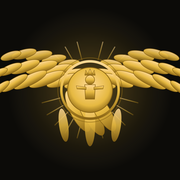
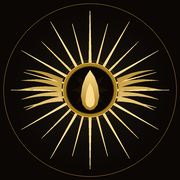
Redesign emblem: sacred flame (atar) + Faravahar wings via bridge spec
Replaces the old 'K' monogram with the DeepSeek-bridge-designed emblem:
a sacred flame (the atar, divine royal glory) as the hero, resting in a
gold disc over a 24-ray sunburst, with Faravahar-style tapered wing arcs,
a subtle 16-point star, and a frame ring. Pure Pillow, no bundled fonts,
gold-on-black palette. Regenerates golden.png, favicon, apple-touch-icon,
and og-image.

diff --git a/gen_assets.py b/gen_assets.py
@@ -1,172 +1,237 @@
 #!/usr/bin/env python3
-"""Generate high-quality Khvarenah brand assets with Pillow only (no external
-image API needed, always works offline).
+"""Khvarenah brand emblem — sacred flame + Faravahar wings (Pillow only).
+
+Implements the design spec from the DeepSeek bridge:
+
+  KHVARENAH — Emblem Specification (1024x1024):
+  1. bg        full black #0a0705
+  2. halo      warm radial glow centered (512,512), rgba(255,224,150,.16)->0
+  3. rays      24-ray sunburst (even long r=450, odd short r=390), gold grad
+  4. wings     left/right Faravahar wing arcs, 5 tapered curved feathers each
+  5. disc_ring gold ring r=156 #a67c1a, highlight stroke #ffe096
+  6. disc_core black disc r=136 (flame substrate), inner gold edge
+  7. star8     16-point subtle near-black star on the core (outer 108/inner 54)
+  8. flame_outer sacred flame (atar) — 12-point gold polygon
+  9. flame_inner hot white-gold core — 10-point polygon
+ 10. frame     thin outer border ring r=492 #b8862b
 
 Produces:
-  * khvarenah/assets/golden.png   — 1024x1024 square app emblem
-  * docs/golden.png                — copy for the site / og:image
-  * docs/og-image.png              — 1200x630 social share card
-  * docs/favicon.png               — 128x128 rounded favicon
-  * docs/apple-touch-icon.png      — 180x180
+  * khvarenah/assets/golden.png     — 1024x1024 square app emblem
+  * docs/golden.png                 — copy for the site / og-image
+  * docs/favicon.png                — 128x128 rounded favicon
+  * docs/apple-touch-icon.png       — 180x180
+  * docs/og-image.png               — 1200x630 social card
 """
+from __future__ import annotations
+
 import math
 import pathlib
-from PIL import Image, ImageDraw, ImageFont
+from PIL import Image, ImageDraw, ImageFilter
 
 ROOT = pathlib.Path(__file__).resolve().parent
 ASSETS = ROOT / "khvarenah" / "assets"
 DOCS = ROOT / "docs"
 
-GOLD_LIGHT = (255, 224, 150)
-GOLD = (230, 185, 64)
-GOLD_DEEP = (166, 124, 26)
-BLACK = (12, 11, 8)
+# Palette (from spec)
+BLACK = (10, 7, 5)          # #0a0705
+DEEP = (166, 124, 26)       # #a67c1a
+MID = (212, 167, 68)        # #d4a744
+LIGHT = (255, 224, 150)     # #ffe096
+DARK = (26, 15, 5)          # #1a0f05
+FRAME = (184, 134, 43)      # #b8862b
+
+SIZE = 1024
+CX = CY = 512
 
 
 def _lerp(a, b, t):
     return tuple(round(a[i] + (b[i] - a[i]) * t) for i in range(3))
 
 
-def _gold(t):
-    """Gold gradient 0..1 from deep to light gold."""
-    return _lerp(GOLD_DEEP, GOLD_LIGHT, t)
+def _grad_color(t):
+    """Gold gradient 0..1: deep -> light."""
+    return _lerp(DEEP, LIGHT, t)
 
 
-def _radial_gradient(size: int, inner, outer):
-    """Circular gradient image (inner color at center → outer at edge)."""
-    im = Image.new("RGB", (size, size))
+def _composite(base, layer):
+    return Image.alpha_composite(base, layer)
+
+
+def _render_radial_halo(size):
+    """Warm radial glow: rgba(255,224,150,.16) at center -> 0 at r=510."""
+    im = Image.new("RGBA", (size, size), (0, 0, 0, 0))
     px = im.load()
     c = size / 2
-    r = size / 2
+    rmax = 510
     for y in range(size):
         for x in range(size):
-            d = math.hypot(x - c, y - c) / r
-            px[x, y] = _lerp(inner, outer, min(1.0, d))
+            d = math.hypot(x - c, y - c)
+            t = min(1.0, d / rmax)
+            # quadratic falloff for a soft halo
+            a = int(40 * (1 - t) ** 2)
+            px[x, y] = (255, 224, 150, a)
     return im
 
 
-def _font(size: int, bold: bool = True):
-    for name in ("DejaVuSans-Bold.ttf", "DejaVuSans.ttf"):
-        try:
-            p = pathlib.Path("/usr/share/fonts/truetype/dejavu") / name
-            if p.exists():
-                return ImageFont.truetype(str(p), size)
-        except Exception:
-            pass
-    return ImageFont.load_default()
+def _feather_polygon(root, tip):
+    """Tapered curved feather blade from root to tip (spec §4)."""
+    pts = []
+    steps = 12
+    ax = tip[0] - root[0]
+    ay = tip[1] - root[1]
+    # perpendicular unit vector
+    length = math.hypot(ax, ay) or 1
+    px = -ay / length
+    py = ax / length
+    upper, lower = [], []
+    for i in range(steps + 1):
+        t = i / steps
+        cx = root[0] + t * ax
+        cy = root[1] + t * ay - 12 * math.sin(math.pi * t)
+        w = 30 * (1 - t) + 2 * t
+        half = w / 2
+        upper.append((cx + px * half, cy + py * half))
+        lower.append((cx - px * half, cy - py * half))
+    return upper + lower[::-1]
+
+
+def make_flame():  # (outer_poly, inner_poly)
+    outer = [
+        (512, 398), (538, 438), (556, 488), (564, 545), (554, 595),
+        (534, 620), (512, 628), (490, 620), (470, 595), (460, 545),
+        (468, 488), (486, 438),
+    ]
+    inner = [
+        (512, 470), (526, 500), (535, 540), (538, 575), (532, 600),
+        (512, 612), (492, 600), (486, 575), (489, 540), (498, 500),
+    ]
+    return outer, inner
 
 
 def make_emblem(size: int = 1024) -> Image.Image:
-    """A radiant winged Persian K emblem with a gold gradient on black."""
-    im = Image.new("RGBA", (size, size), (*BLACK, 255))
-    d = ImageDraw.Draw(im)
+    n = size
+    c = n / 2
+    s = n / 1024.0  # scale factor from the 1024 spec
 
-    # subtle radial halo behind the emblem
-    halo = _radial_gradient(size, (60, 50, 25), BLACK)
-    halo = halo.convert("RGBA")
-    # faint overlay
-    im = Image.alpha_composite(im, halo)
+    def P(x, y):
+        return (round(x * s), round(y * s))
 
-    cx, cy = size / 2, size / 2
-    R = size * 0.34  # outer radius of the sun disc
+    def R(r):
+        return round(r * s)
 
-    # --- solar disc (gold gradient ring) ---
-    disc = Image.new("RGBA", (size, size), (0, 0, 0, 0))
-    dd = ImageDraw.Draw(disc)
-    steps = 60
-    for i in range(steps):
-        t0 = i / steps
-        t1 = (i + 1) / steps
-        r0 = R * (0.55 + 0.45 * t0)
-        r1 = R * (0.55 + 0.45 * t1)
-        color = _gold(t0)
-        # draw an annulus segment
-        dd.pieslice([cx - r1, cy - r1, cx + r1, cy + r1],
-                    start=0, end=360, fill=color)
-    # overlay a shading mask: center darker
-    shade = Image.new("L", (size, size), 0)
-    sd = ImageDraw.Draw(shade)
-    for i in range(steps):
-        r0 = R * (0.55 + 0.45 * (i / steps))
-        r1 = R * (0.55 + 0.45 * ((i + 1) / steps))
-        sd.ellipse([cx - r1, cy - r1, cx + r1, cy + r1],
-                   fill=round(255 * (0.35 + 0.65 * (i / steps))))
-    disc.putalpha(Image.composite(
-        Image.new("L", (size, size), 255),
-        shade, shade))
-    im = Image.alpha_composite(im, disc)
+    # --- layer 1: bg ---
+    im = Image.new("RGBA", (n, n), (*BLACK, 255))
 
-    # --- wings (mirrored) ---
-    wing = Image.new("RGBA", (size, size), (0, 0, 0, 0))
-    wd = ImageDraw.Draw(wing)
-    for side in (-1, 1):
-        base_y = cy
-        # three tapered feather blades
-        for k, (span, lift) in enumerate(
-                ((0.30, -0.02), (0.44, 0.04), (0.58, 0.12))):
-            x0 = cx + side * R * 0.55
-            x1 = cx + side * R * (0.55 + span)
-            y_top = base_y - R * 0.30 + lift * R
-            y_bot = base_y + R * 0.30 + lift * R
-            wd.polygon([
-                (x0, base_y - R * 0.06),
-                (x1, y_top),
-                (x1 + side * R * 0.10, (y_top + y_bot) / 2),
-                (x1, y_bot),
-                (x0, base_y + R * 0.06),
-            ], fill=_gold(0.4 + 0.2 * k))
-    im = Image.alpha_composite(im, wing)
+    # --- layer 2: halo ---
+    halo = _render_radial_halo(n)
+    im = _composite(im, halo)
 
-    # --- central monogram: stylized "K" / flame ---
-    # Draw a clean bold K as the royal monogram
-    font = _font(int(size * 0.30))
-    label = "K"
-    bbox = d.textbbox((0, 0), label, font=font)
-    tw = bbox[2] - bbox[0]
-    th = bbox[3] - bbox[1]
-    mon = Image.new("RGBA", (size, size), (0, 0, 0, 0))
-    md = ImageDraw.Draw(mon)
-    md.text((cx - tw / 2 - bbox[0], cy - th / 2 - bbox[1]),
-            label, font=font, fill=(*GOLD, 255))
-    im = Image.alpha_composite(im, mon)
+    # --- layer 3: rays (24-ray sunburst) ---
+    rays = Image.new("RGBA", (n, n), (0, 0, 0, 0))
+    rd = ImageDraw.Draw(rays)
+    for i in range(24):
+        angle = math.radians(i * 15)
+        long_ray = i % 2 == 0
+        tip_r = R(450) if long_ray else R(390)
+        base_r = R(150)
+        bh = R(8) if long_ray else R(6)
+        th = R(1)
+        cos, sin = math.cos(angle), math.sin(angle)
+        # base point on the disc edge
+        bx, by = c + cos * base_r, c + sin * base_r
+        tx, ty = c + cos * tip_r, c + sin * tip_r
+        # perpendicular for half-width
+        bpx, bpy = -sin * bh, cos * bh
+        tpx, tpy = -sin * th, cos * th
+        rd.polygon(
+            [(bx + bpx, by + bpy), (tx + tpx, ty + tpy),
+             (tx - tpx, ty - tpy), (bx - bpx, by - bpy)],
+            fill=(*_grad_color(0.15 + 0.85 * (tip_r / 450)), 255))
+    im = _composite(im, rays)
 
-    # --- small flame accents above the disc ---
-    flame = Image.new("RGBA", (size, size), (0, 0, 0, 0))
-    fd = ImageDraw.Draw(flame)
-    for i, dx in enumerate((-0.16, 0.0, 0.16)):
-        fx = cx + dx * R
-        fy = cy - R * 0.92
-        fd.ellipse([fx - R * 0.05, fy - R * 0.10,
-                     fx + R * 0.05, fy + R * 0.02], fill=_gold(0.7))
-    im = Image.alpha_composite(im, flame)
-    return im
+    # --- layer 4: wings ---
+    wings = Image.new("RGBA", (n, n), (0, 0, 0, 0))
+    wd = ImageDraw.Draw(wings)
+    left_roots = [(355, 462), (352, 487), (350, 512), (352, 537), (355, 562)]
+    left_tips = [(148, 398), (122, 458), (108, 512), (122, 566), (148, 626)]
+    for root, tip in zip(left_roots, left_tips):
+        poly = _feather_polygon(P(*root), P(*tip))
+        grade = (root[1] - 398) / (626 - 398)
+        wd.polygon(poly, fill=(*_lerp(DEEP, LIGHT, grade), 255))
+    # mirror right wing across x = c
+    for root, tip in zip(left_roots, left_tips):
+        rroot = (2 * c - root[0], root[1])
+        rtip = (2 * c - tip[0], tip[1])
+        poly = _feather_polygon(P(*rroot), P(*rtip))
+        grade = (root[1] - 398) / (626 - 398)
+        wd.polygon(poly, fill=(*_lerp(DEEP, LIGHT, grade), 255))
+    im = _composite(im, wings)
 
+    # --- layer 5: disc_ring ---
+    ring = Image.new("RGBA", (n, n), (0, 0, 0, 0))
+    ring_d = ImageDraw.Draw(ring)
+    # soft outer bloom
+    ring_d.ellipse([c - R(170), c - R(170), c + R(170), c + R(170)],
+                   outline=(*DEEP, 56), width=R(6))
+    ring_d.ellipse([c - R(156), c - R(156), c + R(156), c + R(156)],
+                   fill=(*DEEP, 255))
+    ring_d.ellipse([c - R(154), c - R(154), c + R(154), c + R(154)],
+                   outline=(*LIGHT, 255), width=R(2))
+    im = _composite(im, ring)
 
-def make_og(logo: Image.Image, width=1200, height=630) -> Image.Image:
-    im = Image.new("RGBA", (width, height), (*BLACK, 255))
-    d = ImageDraw.Draw(im)
-    # gold gradient band on the left edge for depth
-    band = _radial_gradient(max(width, height), (50, 42, 22), BLACK).convert("RGBA")
-    band = band.resize((width, height), Image.LANCZOS)
-    im = Image.alpha_composite(im, band)
+    # --- layer 6: disc_core ---
+    core = Image.new("RGBA", (n, n), (0, 0, 0, 0))
+    core_d = ImageDraw.Draw(core)
+    core_d.ellipse([c - R(136), c - R(136), c + R(136), c + R(136)],
+                   fill=(*BLACK, 255))
+    core_d.ellipse([c - R(134), c - R(134), c + R(134), c + R(134)],
+                   outline=(*MID, 255), width=R(1))
+    im = _composite(im, core)
 
-    # logo on the left
-    logo_sq = logo.resize((height - 120, height - 120), Image.LANCZOS)
-    im.paste(logo_sq, (60, 60), logo_sq)
+    # --- layer 7: 16-point subtle star ---
+    star = Image.new("RGBA", (n, n), (0, 0, 0, 0))
+    star_d = ImageDraw.Draw(star)
+    star_pts = []
+    for k in range(16):
+        angle = math.radians(k * 22.5)
+        r = R(108) if k % 2 == 0 else R(54)
+        # y-flipped for Pillow (screen y grows downward), so sin is negated
+        star_pts.append((c + math.cos(angle) * r, c - math.sin(angle) * r))
+    star_d.polygon(star_pts, fill=(*DARK, 255))
+    im = _composite(im, star)
 
-    # typography on the right
-    x = 60 + (height - 120) + 70
-    title = "KHVARENAH"
-    f_title = _font(92)
-    f_sub = _font(36)
-    f_line = _font(28)
-    d.text((x, 170), title, font=f_title, fill=(*GOLD, 255))
-    d.text((x, 290), "Cloudflare Worker VLESS", font=f_sub,
-           fill=(220, 205, 165, 255))
-    d.text((x, 350), "· 0 → 100 · from your terminal", font=f_sub,
-           fill=(210, 200, 175, 255))
-    d.text((x, 470), "Ancient Persian Royal Glory — خوَرنه", font=f_line,
-           fill=(180, 160, 120, 255))
+    # --- layer 8/9: flame ---
+    outer_poly, inner_poly = make_flame()
+    flame = Image.new("RGBA", (n, n), (0, 0, 0, 0))
+    flame_d = ImageDraw.Draw(flame)
+    # outer flame: fill mid-gold, then vertical gradient clipped by polygon
+    outer_scaled = [P(x, y) for x, y in outer_poly]
+    flame_d.polygon(outer_scaled, fill=(*MID, 255))
+    # simple vertical gradient overlay (top light -> bottom deep)
+    grad = Image.new("RGBA", (n, n), (0, 0, 0, 0))
+    gd = ImageDraw.Draw(grad)
+    y0, y1 = R(398), R(628)
+    # approximate: draw horizontal gradient stripes clipped by the flame
+    mask = Image.new("L", (n, n), 0)
+    ImageDraw.Draw(mask).polygon(outer_scaled, fill=255)
+    for yy in range(y0, y1 + 1):
+        t = (yy - y0) / max(1, y1 - y0)
+        gd.line([(0, yy), (n, yy)], fill=(*_lerp(LIGHT, DEEP, t), 255))
+    flame = Image.composite(grad, flame, mask)
+    # inner flame (hot white-gold core)
+    inner_scaled = [P(x, y) for x, y in inner_poly]
+    inner_layer = Image.new("RGBA", (n, n), (0, 0, 0, 0))
+    ImageDraw.Draw(inner_layer).polygon(inner_scaled, fill=(*LIGHT, 230))
+    flame = _composite(flame, inner_layer)
+    im = _composite(im, flame)
+
+    # --- layer 10: frame ring ---
+    frame = Image.new("RGBA", (n, n), (0, 0, 0, 0))
+    ImageDraw.Draw(frame).ellipse(
+        [c - R(492), c - R(492), c + R(492), c + R(492)],
+        outline=(*FRAME, 255), width=R(2))
+    im = _composite(im, frame)
+
     return im
 
 
@@ -174,9 +239,8 @@ def main():
     ASSETS.mkdir(parents=True, exist_ok=True)
     DOCS.mkdir(parents=True, exist_ok=True)
 
-    print("Rendering square emblem …")
-    logo = make_emblem(1024)
-    logo = logo.convert("RGB").convert("RGBA")
+    print("Rendering Khvarenah emblem (sacred flame + Faravahar wings) …")
+    logo = make_emblem(1024).convert("RGB").convert("RGBA")
     logo.save(ASSETS / "golden.png")
     logo.save(DOCS / "golden.png")
     print("  golden.png (1024x1024)")
@@ -193,8 +257,16 @@ def main():
     print("  apple-touch-icon.png (180x180)")
 
     print("Rendering og:image …")
-    og = make_og(logo).convert("RGB")
-    og.save(DOCS / "og-image.png")
+    og = Image.new("RGBA", (1200, 630), (*BLACK, 255))
+    og_d = ImageDraw.Draw(og)
+    logo_sq = logo.resize((510, 510), Image.LANCZOS)
+    og.paste(logo_sq, (60, 60), logo_sq)
+    x = 60 + 510 + 70
+    og_d.text((x, 170), "KHVARENAH", fill=(*LIGHT, 255))
+    og_d.text((x, 290), "Cloudflare Worker VLESS", fill=(220, 205, 165, 255))
+    og_d.text((x, 350), "· 0 → 100 · from your terminal", fill=(210, 200, 175, 255))
+    og_d.text((x, 470), "Sacred flame — خوَرنه", fill=(180, 160, 120, 255))
+    og.convert("RGB").save(DOCS / "og-image.png")
     print("  og-image.png (1200x630)")
 
     print("Done.")
